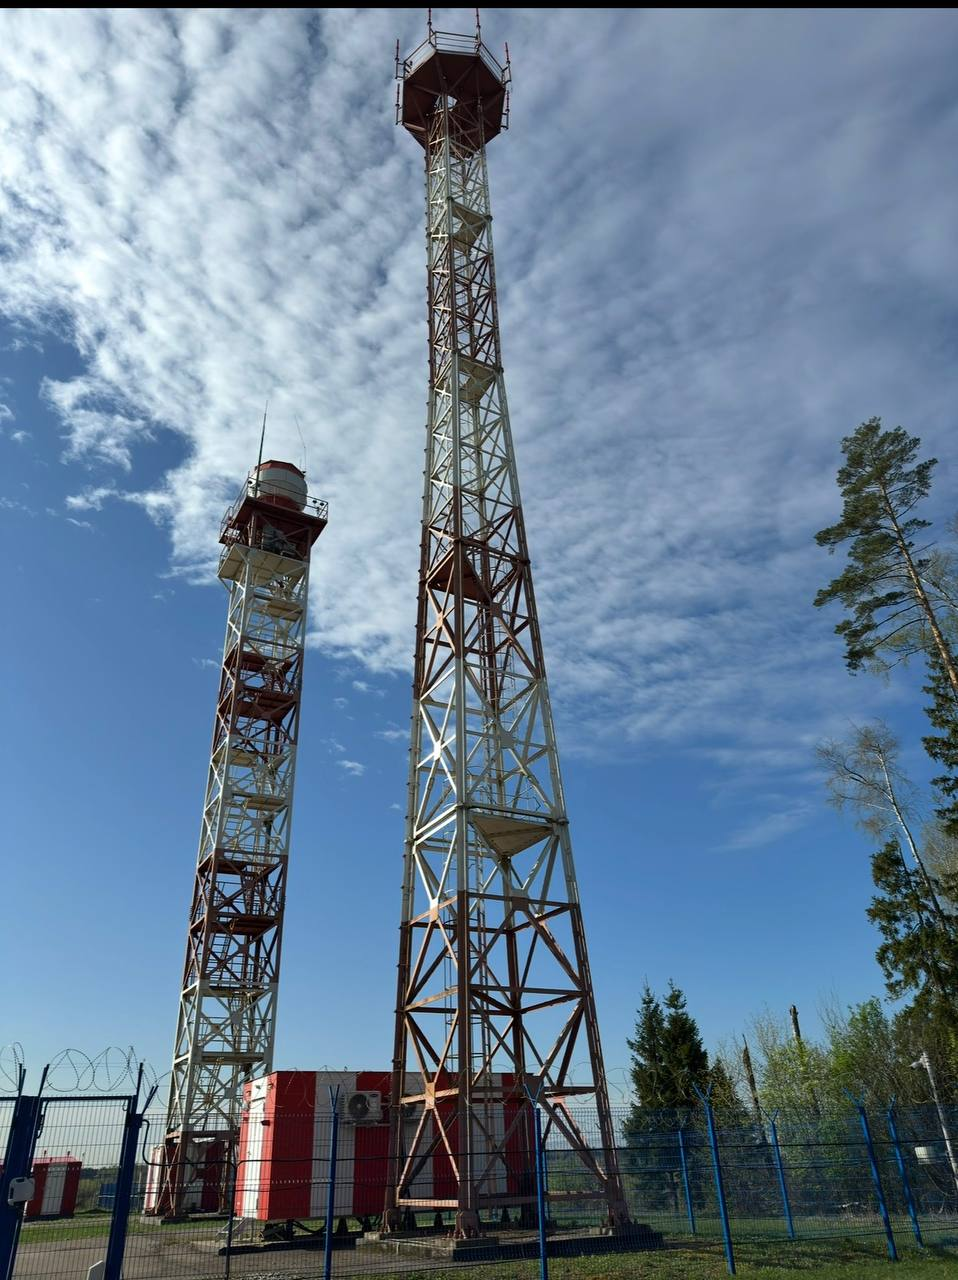
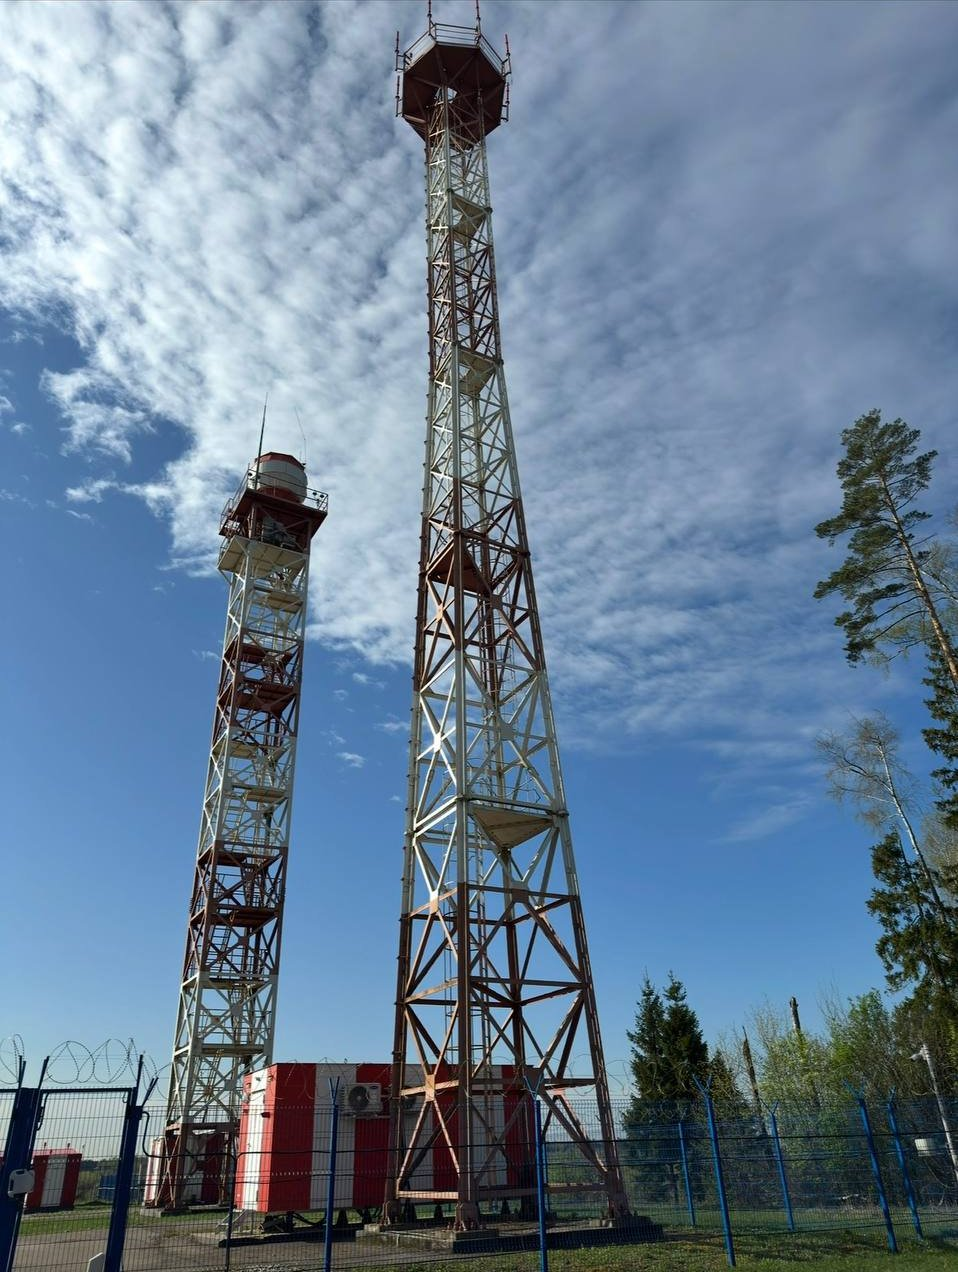
Металл: SHACMAN на пятом месте портфолио, убрана чёрная полоска на фото вышек

diff --git a/pokraskametall/index.html b/pokraskametall/index.html
@@ -984,8 +984,8 @@
         <div class="case__shots">
           <figure class="shot">
             <span class="shot__label shot__label--before">Было</span>
-            <img src="../assets/works/case8-1.jpg" alt="радиолокационные вышки аэропорта Шереметьево, фото 1"
-                 width="958" height="1280" loading="lazy" decoding="async">
+            <img src="../assets/works/case8-1.jpg?v=2" alt="радиолокационные вышки аэропорта Шереметьево, фото 1"
+                 width="958" height="1272" loading="lazy" decoding="async">
           </figure>
           <figure class="shot">
             <span class="shot__label shot__label--before">Было</span>
@@ -1081,6 +1081,48 @@
             <span class="shot__label">Стало</span>
             <img src="../assets/works/case10-4.jpg" alt="зимняя покраска бетонных и металлических конструкций, фото 4"
                  width="918" height="1280" loading="lazy" decoding="async">
+          </figure>
+        </div>
+      </article>
+      <article class="case reveal">
+        <div class="case__info">
+          <span class="case__mark" aria-hidden="true">bestpaints</span>
+          <h3 class="case__title">Ребрендинг техцентра SHACMAN</h3>
+          <p class="case__sub">Металлоконструкции и фасадные элементы</p>
+          <p class="case__h">Какие работы были проведены:</p>
+          <ul class="dots dots--green">
+            <li>зачистка металлических поверхностей от старого покрытия</li>
+            <li>подготовка металлоконструкций к окрашиванию</li>
+            <li>покраска в соответствии с новым оформлением техцентра</li>
+          </ul>
+          <p class="case__feat">Наружные металлоконструкции сложной геометрии: арочные элементы и вертикальные стойки.</p>
+          <p class="case__res"><b>Результат.</b> Конструкции получили тёмное покрытие под новое оформление бренда.</p>
+          <div class="case__stats">
+            <p class="case__stat"><span>Площадь покраски</span><b>350 м²</b></p>
+            <p class="case__stat"><span>Стоимость проекта</span><b>650 000 ₽</b></p>
+            <p class="case__stat"><span>Цена за м²</span><b>1 857 ₽</b></p>
+          </div>
+        </div>
+        <div class="case__shots">
+          <figure class="shot">
+            <span class="shot__label shot__label--before">Было</span>
+            <img src="../assets/works/case5-1.jpg" alt="техцентр SHACMAN, фото 1"
+                 width="1000" height="583" loading="lazy" decoding="async">
+          </figure>
+          <figure class="shot">
+            <span class="shot__label shot__label--before">Было</span>
+            <img src="../assets/works/case5-2.jpg" alt="техцентр SHACMAN, фото 2"
+                 width="494" height="718" loading="lazy" decoding="async">
+          </figure>
+          <figure class="shot">
+            <span class="shot__label">Стало</span>
+            <img src="../assets/works/case5-3.jpg" alt="техцентр SHACMAN, фото 3"
+                 width="1000" height="726" loading="lazy" decoding="async">
+          </figure>
+          <figure class="shot">
+            <span class="shot__label">Стало</span>
+            <img src="../assets/works/case5-4.jpg" alt="техцентр SHACMAN, фото 4"
+                 width="1000" height="574" loading="lazy" decoding="async">
           </figure>
         </div>
       </article>
@@ -1288,48 +1330,6 @@
             <span class="shot__label">Стало</span>
             <img src="../assets/works/case4-2.jpg" alt="склад в Хотьково, фото 2"
                  width="1000" height="749" loading="lazy" decoding="async">
-          </figure>
-        </div>
-      </article>
-      <article class="case reveal">
-        <div class="case__info">
-          <span class="case__mark" aria-hidden="true">bestpaints</span>
-          <h3 class="case__title">Ребрендинг техцентра SHACMAN</h3>
-          <p class="case__sub">Металлоконструкции и фасадные элементы</p>
-          <p class="case__h">Какие работы были проведены:</p>
-          <ul class="dots dots--green">
-            <li>зачистка металлических поверхностей от старого покрытия</li>
-            <li>подготовка металлоконструкций к окрашиванию</li>
-            <li>покраска в соответствии с новым оформлением техцентра</li>
-          </ul>
-          <p class="case__feat">Наружные металлоконструкции сложной геометрии: арочные элементы и вертикальные стойки.</p>
-          <p class="case__res"><b>Результат.</b> Конструкции получили тёмное покрытие под новое оформление бренда.</p>
-          <div class="case__stats">
-            <p class="case__stat"><span>Площадь покраски</span><b>350 м²</b></p>
-            <p class="case__stat"><span>Стоимость проекта</span><b>650 000 ₽</b></p>
-            <p class="case__stat"><span>Цена за м²</span><b>1 857 ₽</b></p>
-          </div>
-        </div>
-        <div class="case__shots">
-          <figure class="shot">
-            <span class="shot__label shot__label--before">Было</span>
-            <img src="../assets/works/case5-1.jpg" alt="техцентр SHACMAN, фото 1"
-                 width="1000" height="583" loading="lazy" decoding="async">
-          </figure>
-          <figure class="shot">
-            <span class="shot__label shot__label--before">Было</span>
-            <img src="../assets/works/case5-2.jpg" alt="техцентр SHACMAN, фото 2"
-                 width="494" height="718" loading="lazy" decoding="async">
-          </figure>
-          <figure class="shot">
-            <span class="shot__label">Стало</span>
-            <img src="../assets/works/case5-3.jpg" alt="техцентр SHACMAN, фото 3"
-                 width="1000" height="726" loading="lazy" decoding="async">
-          </figure>
-          <figure class="shot">
-            <span class="shot__label">Стало</span>
-            <img src="../assets/works/case5-4.jpg" alt="техцентр SHACMAN, фото 4"
-                 width="1000" height="574" loading="lazy" decoding="async">
           </figure>
         </div>
       </article>
